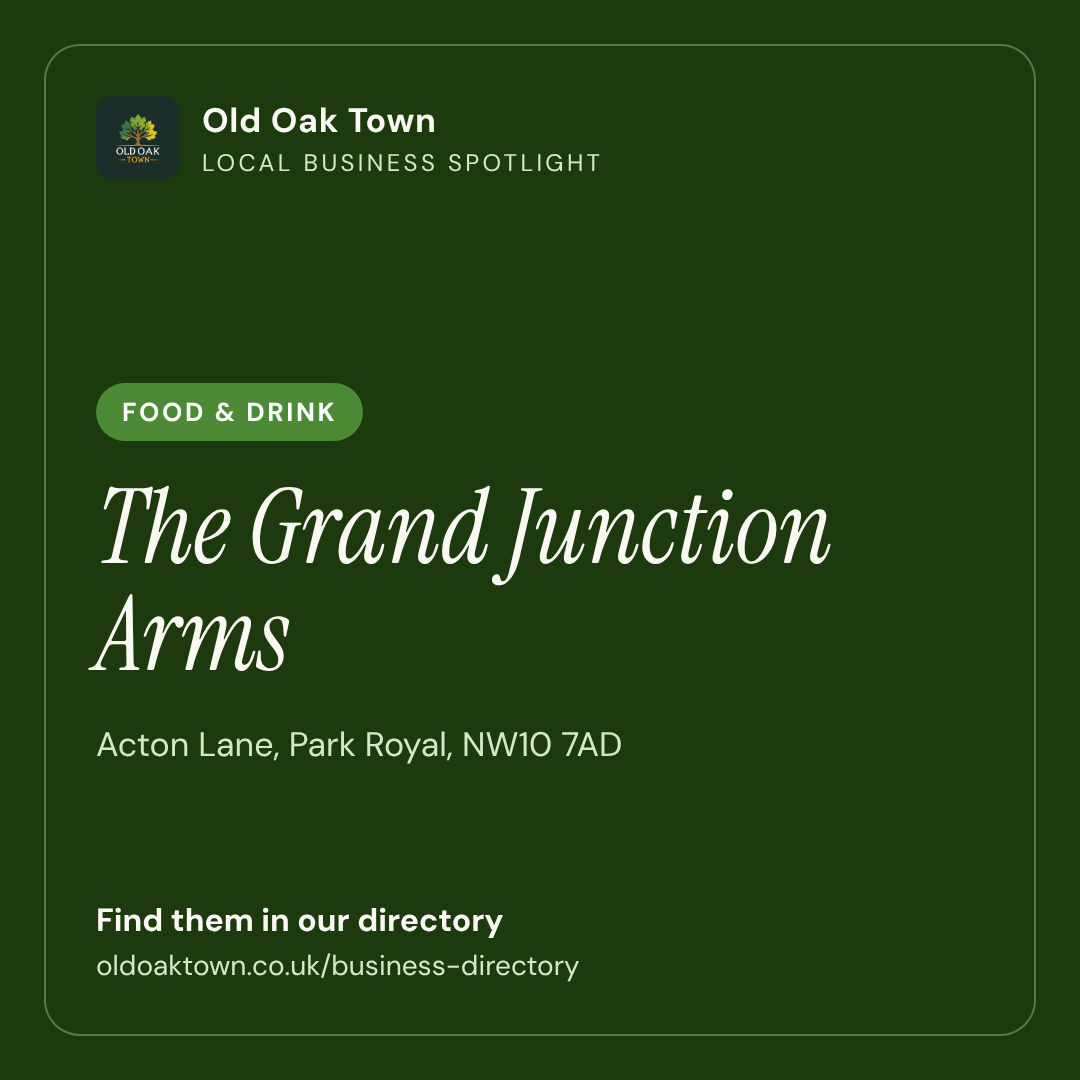
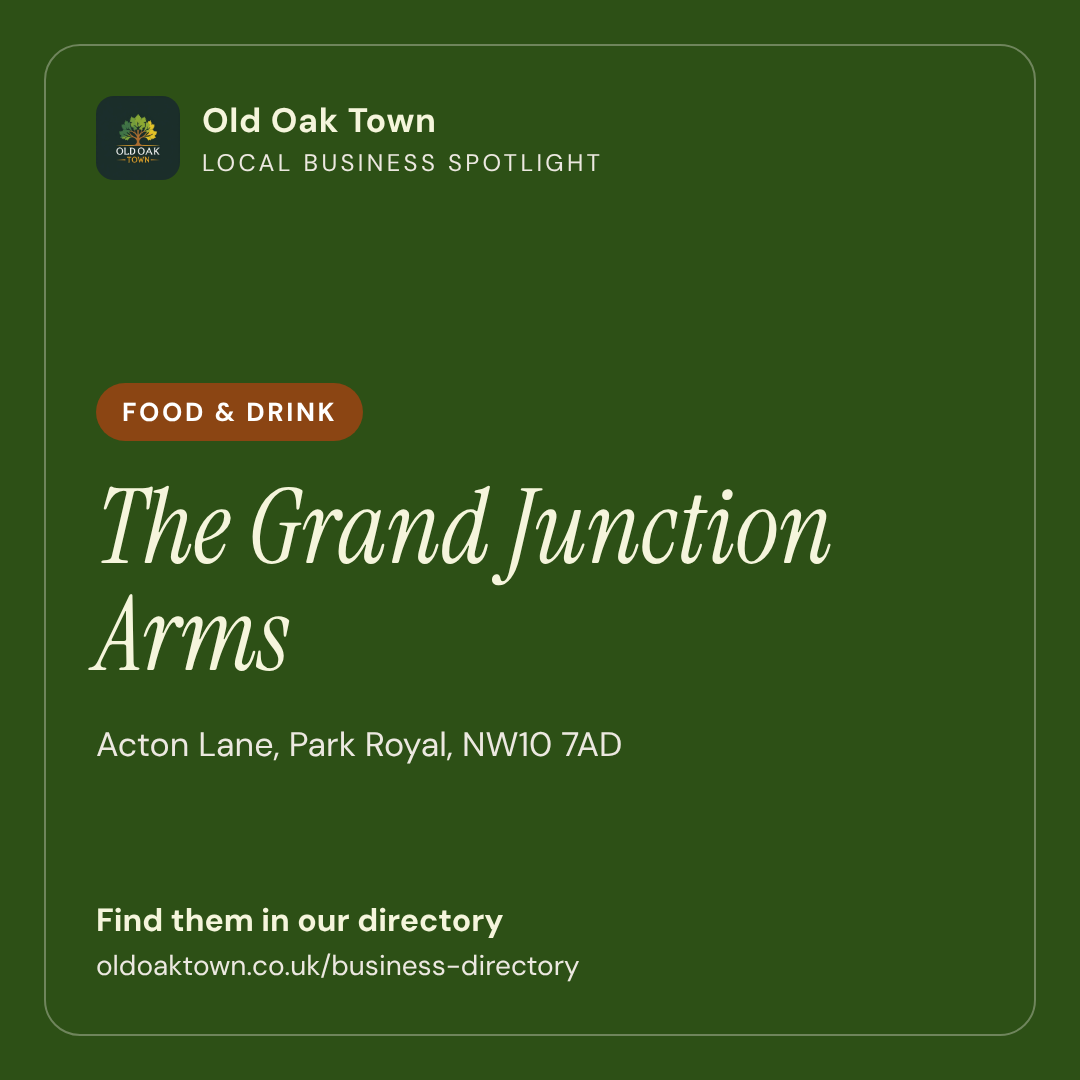
Re-render pilot promo images in the brand palette
Same ten businesses and captions; only the images change.

Claude-Session: https://claude.ai/code/session_01X8qX9SPwyqeJBEqMkBpjzk

Changed region(s): [[0.0917, 0.3361, 0.3361, 0.4278]]

diff --git a/CLAUDE.md b/CLAUDE.md
@@ -29,7 +29,7 @@ UI-only status colours (admin tools, forms): amber `#D4860A` (warnings), red `#C
 
 Derived neutrals (not brand colours, used for UI only): muted text `#555555`, hairline borders `#DDD8C8`.
 
-> **Migrated (Nov 2026):** the blog, directory, homepage, admin pages, weekly edition email, outreach leaflets and promo-image script now use this palette. Still on the old green set: the social-agent generator, `scripts/sites/`, `lib/handlers/agent-data.js`, `scripts/site-health-monitor.js`, `scripts/seo-gap-finder.js` and the 10 pilot images already rendered in `images/promo/` (re-run `business-promo-pilot.js` to refresh them).
+> **Migrated (Nov 2026):** the blog, directory, homepage, admin pages, weekly edition email, outreach leaflets and the 10 pilot promo images now use this palette. Still on the old green set: the social-agent generator, `scripts/sites/`, `lib/handlers/agent-data.js`, `scripts/site-health-monitor.js` and `scripts/seo-gap-finder.js`.
 
 **Fonts** (same pair on the homepage, blog, directory and promo images):
 - Headlines: `Instrument Serif` 400, italic for emphasis and hero text (fallback Georgia, serif)
